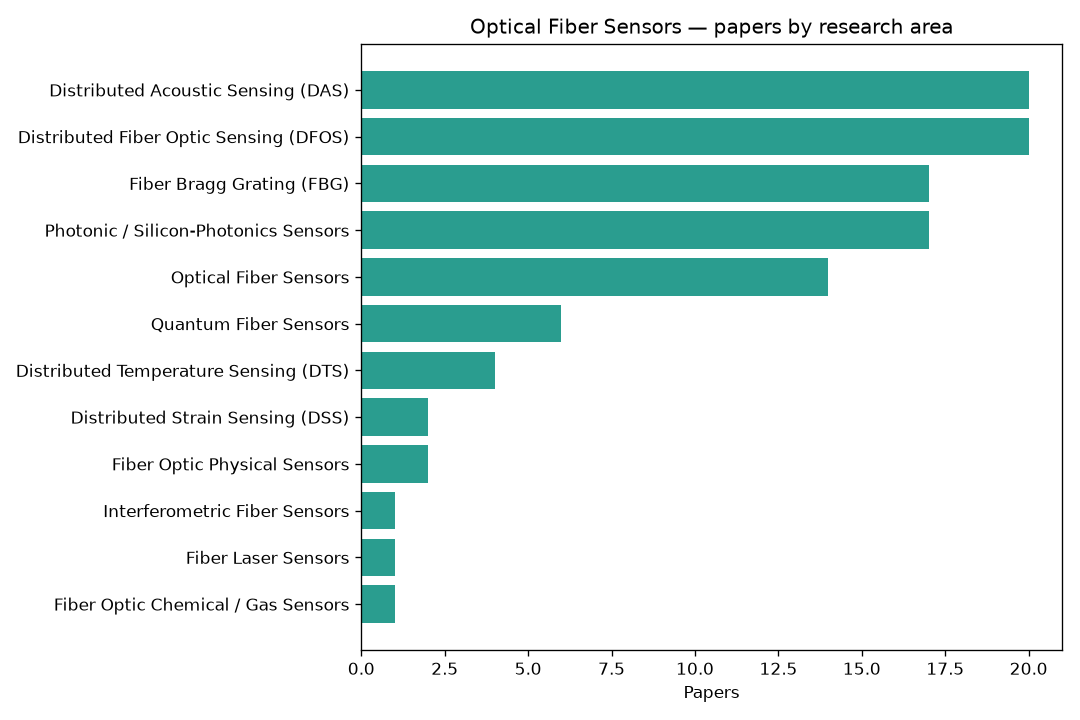
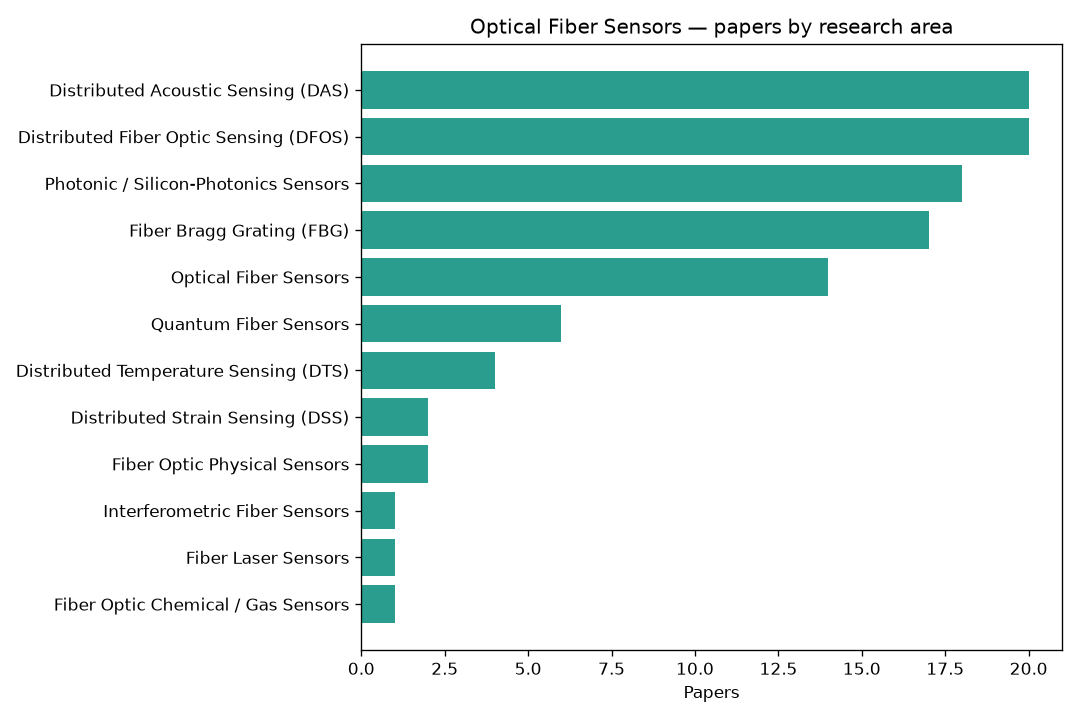
research(monitor): daily optical fiber sensor update (2026-08-25)

Changed region(s): [[0.0306, 0.3056, 0.3361, 0.3361], [0.0306, 0.2444, 0.3361, 0.275], [0.8556, 0.2139, 0.9167, 0.3056]]

diff --git a/Reports/2026-08-25.md b/Reports/2026-08-25.md
@@ -1,0 +1,75 @@
+# 🔬 Optical Fiber Sensors — Daily Research Report
+# 🔬 گزارش روزانه پژوهش سنسورهای فیبر نوری
+
+**Date / تاریخ:** 2026-08-25  
+**Papers today / مقالات امروز:** 1  
+**Average rating / میانگین امتیاز:** 2.0 / 5  
+**Hot areas / حوزههای داغ:** Photonic / Silicon-Photonics Sensors (1)
+
+---
+
+## 🗒 Day summary / خلاصه روز
+
+**EN —** 1 new paper(s) logged today across 1 research area(s).
+
+**FA —** امروز 1 مقاله جدید در 1 حوزه پژوهشی ثبت شد.
+
+## 📈 Top research trends / مهمترین روندهای تحقیقاتی
+
+- Photonic / Silicon-Photonics Sensors
+
+## 🧪 Technology-trend analysis / تحلیل روند فناوری
+
+**EN —** See per-paper analysis below.
+
+**FA —** به تحلیل هر مقاله در ادامه مراجعه کنید.
+
+## 🔁 Comparison with previous day / مقایسه با روز قبل
+
+- Previous report / گزارش قبلی: **2026-08-24** with 24 analysed papers.
+- Change / تغییر: **-23** papers vs. the previous report.
+
+## 🧭 Future research suggestions / پیشنهادهای تحقیقاتی آینده
+
+- Continue monitoring the highest-rated directions.
+
+---
+
+## 📚 New papers / مقالات جدید (1)
+### 1. Touch-based wearable cortisol monitoring via an interface-engineered hydrogel fiber sensor
+**عنوان (فارسی):** Touch-based wearable cortisol monitoring via an interface-engineered hydrogel fiber sensor
+
+- **Authors / نویسندگان:** Hang Tian, Lingli Qu, Shihui Chen, Zhuwang Shao, Kerui Li, Qinghong Zhang, Yaogang Li, Hongzhi Wang, Chengyi Hou
+- **Affiliation / وابستگی:** — · **Country / کشور:** —
+- **Venue / منبع:** Talanta — Elsevier BV
+- **Published / انتشار:** 2027-02 · **DOI:** `10.1016/j.talanta.2026.130339`
+- **Link:** https://doi.org/10.1016/j.talanta.2026.130339 · **Scholar:** [search](https://scholar.google.com/scholar?q=Touch-based+wearable+cortisol+monitoring+via+an+interface-engineered+hydrogel+fiber+sensor)
+- **Open Access:** Unknown · **Citations:** 0 · **IF:** — · **Quartile:** —
+- **Research Area / حوزه:** Photonic / Silicon-Photonics Sensors
+- **Keywords / کلیدواژهها:** 
+- **Rating / امتیاز:** ★★☆☆☆ (2/5)
+
+#### 📝 Summary / خلاصه
+Auto-added from the source record; see the summary/abstract above. A fuller bilingual analysis is added when the analyst pass runs.
+
+> بهصورت خودکار از رکورد منبع افزوده شده؛ خلاصه/چکیدهی بالا را ببینید. تحلیل کامل دوزبانه در مرحلهی تحلیلگر افزوده میشود.
+
+| Aspect / جنبه | English | فارسی |
+|---|---|---|
+| Research problem / مسئله | Auto-added from the source record; see the summary/abstract above. A fuller bilingual analysis is added when the analyst pass runs. | بهصورت خودکار از رکورد منبع افزوده شده؛ خلاصه/چکیدهی بالا را ببینید. تحلیل کامل دوزبانه در مرحلهی تحلیلگر افزوده میشود. |
+| Innovation / نوآوری | Auto-added from the source record; see the summary/abstract above. A fuller bilingual analysis is added when the analyst pass runs. | بهصورت خودکار از رکورد منبع افزوده شده؛ خلاصه/چکیدهی بالا را ببینید. تحلیل کامل دوزبانه در مرحلهی تحلیلگر افزوده میشود. |
+| Method / روش | Auto-added from the source record; see the summary/abstract above. A fuller bilingual analysis is added when the analyst pass runs. | بهصورت خودکار از رکورد منبع افزوده شده؛ خلاصه/چکیدهی بالا را ببینید. تحلیل کامل دوزبانه در مرحلهی تحلیلگر افزوده میشود. |
+| Key results / نتایج | Auto-added from the source record; see the summary/abstract above. A fuller bilingual analysis is added when the analyst pass runs. | بهصورت خودکار از رکورد منبع افزوده شده؛ خلاصه/چکیدهی بالا را ببینید. تحلیل کامل دوزبانه در مرحلهی تحلیلگر افزوده میشود. |
+| Limitations / محدودیتها | Auto-added from the source record; see the summary/abstract above. A fuller bilingual analysis is added when the analyst pass runs. | بهصورت خودکار از رکورد منبع افزوده شده؛ خلاصه/چکیدهی بالا را ببینید. تحلیل کامل دوزبانه در مرحلهی تحلیلگر افزوده میشود. |
+| Applications / کاربردها | Auto-added from the source record; see the summary/abstract above. A fuller bilingual analysis is added when the analyst pass runs. | بهصورت خودکار از رکورد منبع افزوده شده؛ خلاصه/چکیدهی بالا را ببینید. تحلیل کامل دوزبانه در مرحلهی تحلیلگر افزوده میشود. |
+| Read it? / پیشنهاد مطالعه | Auto-added from the source record; see the summary/abstract above. A fuller bilingual analysis is added when the analyst pass runs. | بهصورت خودکار از رکورد منبع افزوده شده؛ خلاصه/چکیدهی بالا را ببینید. تحلیل کامل دوزبانه در مرحلهی تحلیلگر افزوده میشود. |
+
+**Why this rating / دلیل امتیاز:** Heuristic rating from metadata (recency, venue, review/citation signals); pending full review. — امتیاز اکتشافی بر پایهی فراداده (تازگی، اعتبار منبع، نشانههای مروری/استناد)؛ در انتظار بازبینی کامل.
+
+---
+## ℹ Sources & method / منابع و روش
+
+Papers are collected from reputable venues only (IEEE, Springer, Nature, ScienceDirect/Elsevier, Optica, Wiley, Taylor & Francis, MDPI, ACS, SPIE, and arXiv preprints — the latter always flagged as *Preprint*). Duplicates are filtered against the full history in `../papers.json`.
+
+مقالات فقط از منابع معتبر گردآوری میشوند و پیشچاپهای arXiv همیشه با برچسب «Preprint» مشخص شدهاند. رکوردهای تکراری در برابر کل تاریخچه فیلتر میشوند.
+

diff --git a/README.md b/README.md
@@ -94,10 +94,10 @@ sensing. See [`docs/RESEARCH_MONITOR.md`](docs/RESEARCH_MONITOR.md) for the desi
 
 | Metric | Value |
 |---|---|
-| 🕒 Last update | **2026-08-24** |
-| 📚 Total papers tracked | **105** |
-| 🗓 Papers this week | **2** |
-| 📰 Distinct journals/venues | **1** |
+| 🕒 Last update | **2026-08-25** |
+| 📚 Total papers tracked | **106** |
+| 🗓 Papers this week | **3** |
+| 📰 Distinct journals/venues | **2** |
 
 **🔥 Hot topics**
 
@@ -105,14 +105,14 @@ sensing. See [`docs/RESEARCH_MONITOR.md`](docs/RESEARCH_MONITOR.md) for the desi
 |---|---|
 | Distributed Acoustic Sensing (DAS) | 20 |
 | Distributed Fiber Optic Sensing (DFOS) | 20 |
+| Photonic / Silicon-Photonics Sensors | 18 |
 | Fiber Bragg Grating (FBG) | 17 |
-| Photonic / Silicon-Photonics Sensors | 17 |
 | Optical Fiber Sensors | 14 |
 | Quantum Fiber Sensors | 6 |
 
 📈 Chart: [`Figures/papers_by_area.svg`](Figures/papers_by_area.svg) ·
 🗂 Database: [`Database/papers.csv`](Database/papers.csv) ·
-📄 Latest report: [`Reports/2026-08-24.md`](Reports/2026-08-24.md)
+📄 Latest report: [`Reports/2026-08-25.md`](Reports/2026-08-25.md)
 
 <!-- FIBER-MONITOR:END -->
 
